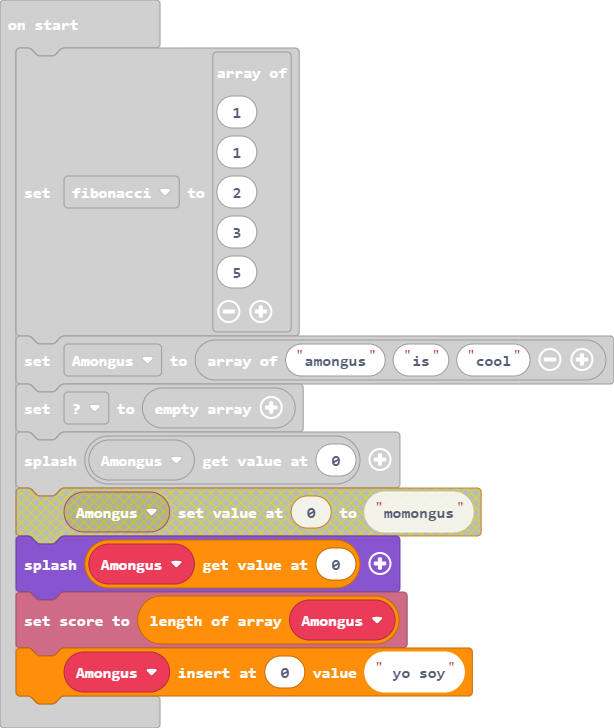
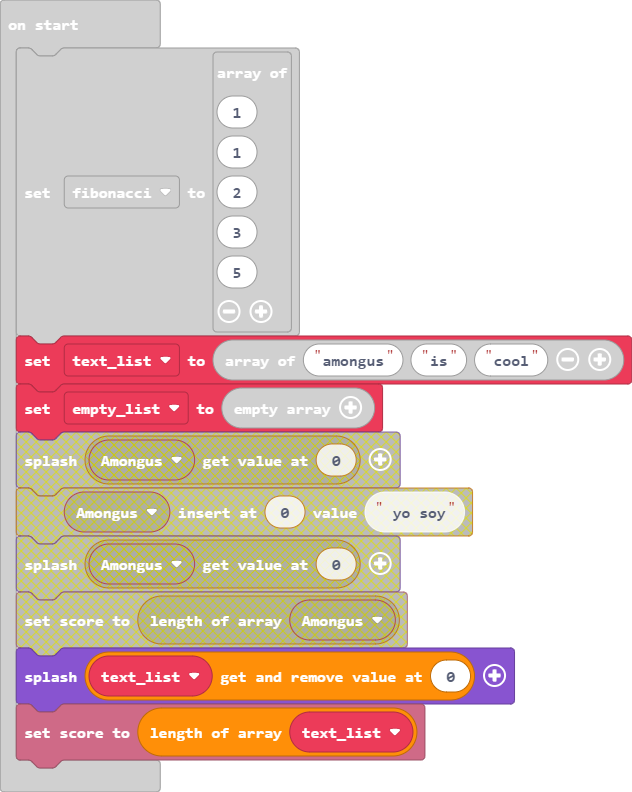
Remove from list

diff --git a/main.ts b/main.ts
@@ -5,9 +5,7 @@ let fibonacci = [
 3,
 5
 ]
-let Amongus = ["amongus", "is", "cool"]
-let _: number[] = []
-game.splash(Amongus[0])
-Amongus.insertAt(0, " yo soy")
-game.splash(Amongus[0])
-info.setScore(Amongus.length)
+let text_list = ["amongus", "is", "cool"]
+let empty_list: number[] = []
+game.splash(text_list.removeAt(0))
+info.setScore(text_list.length)
